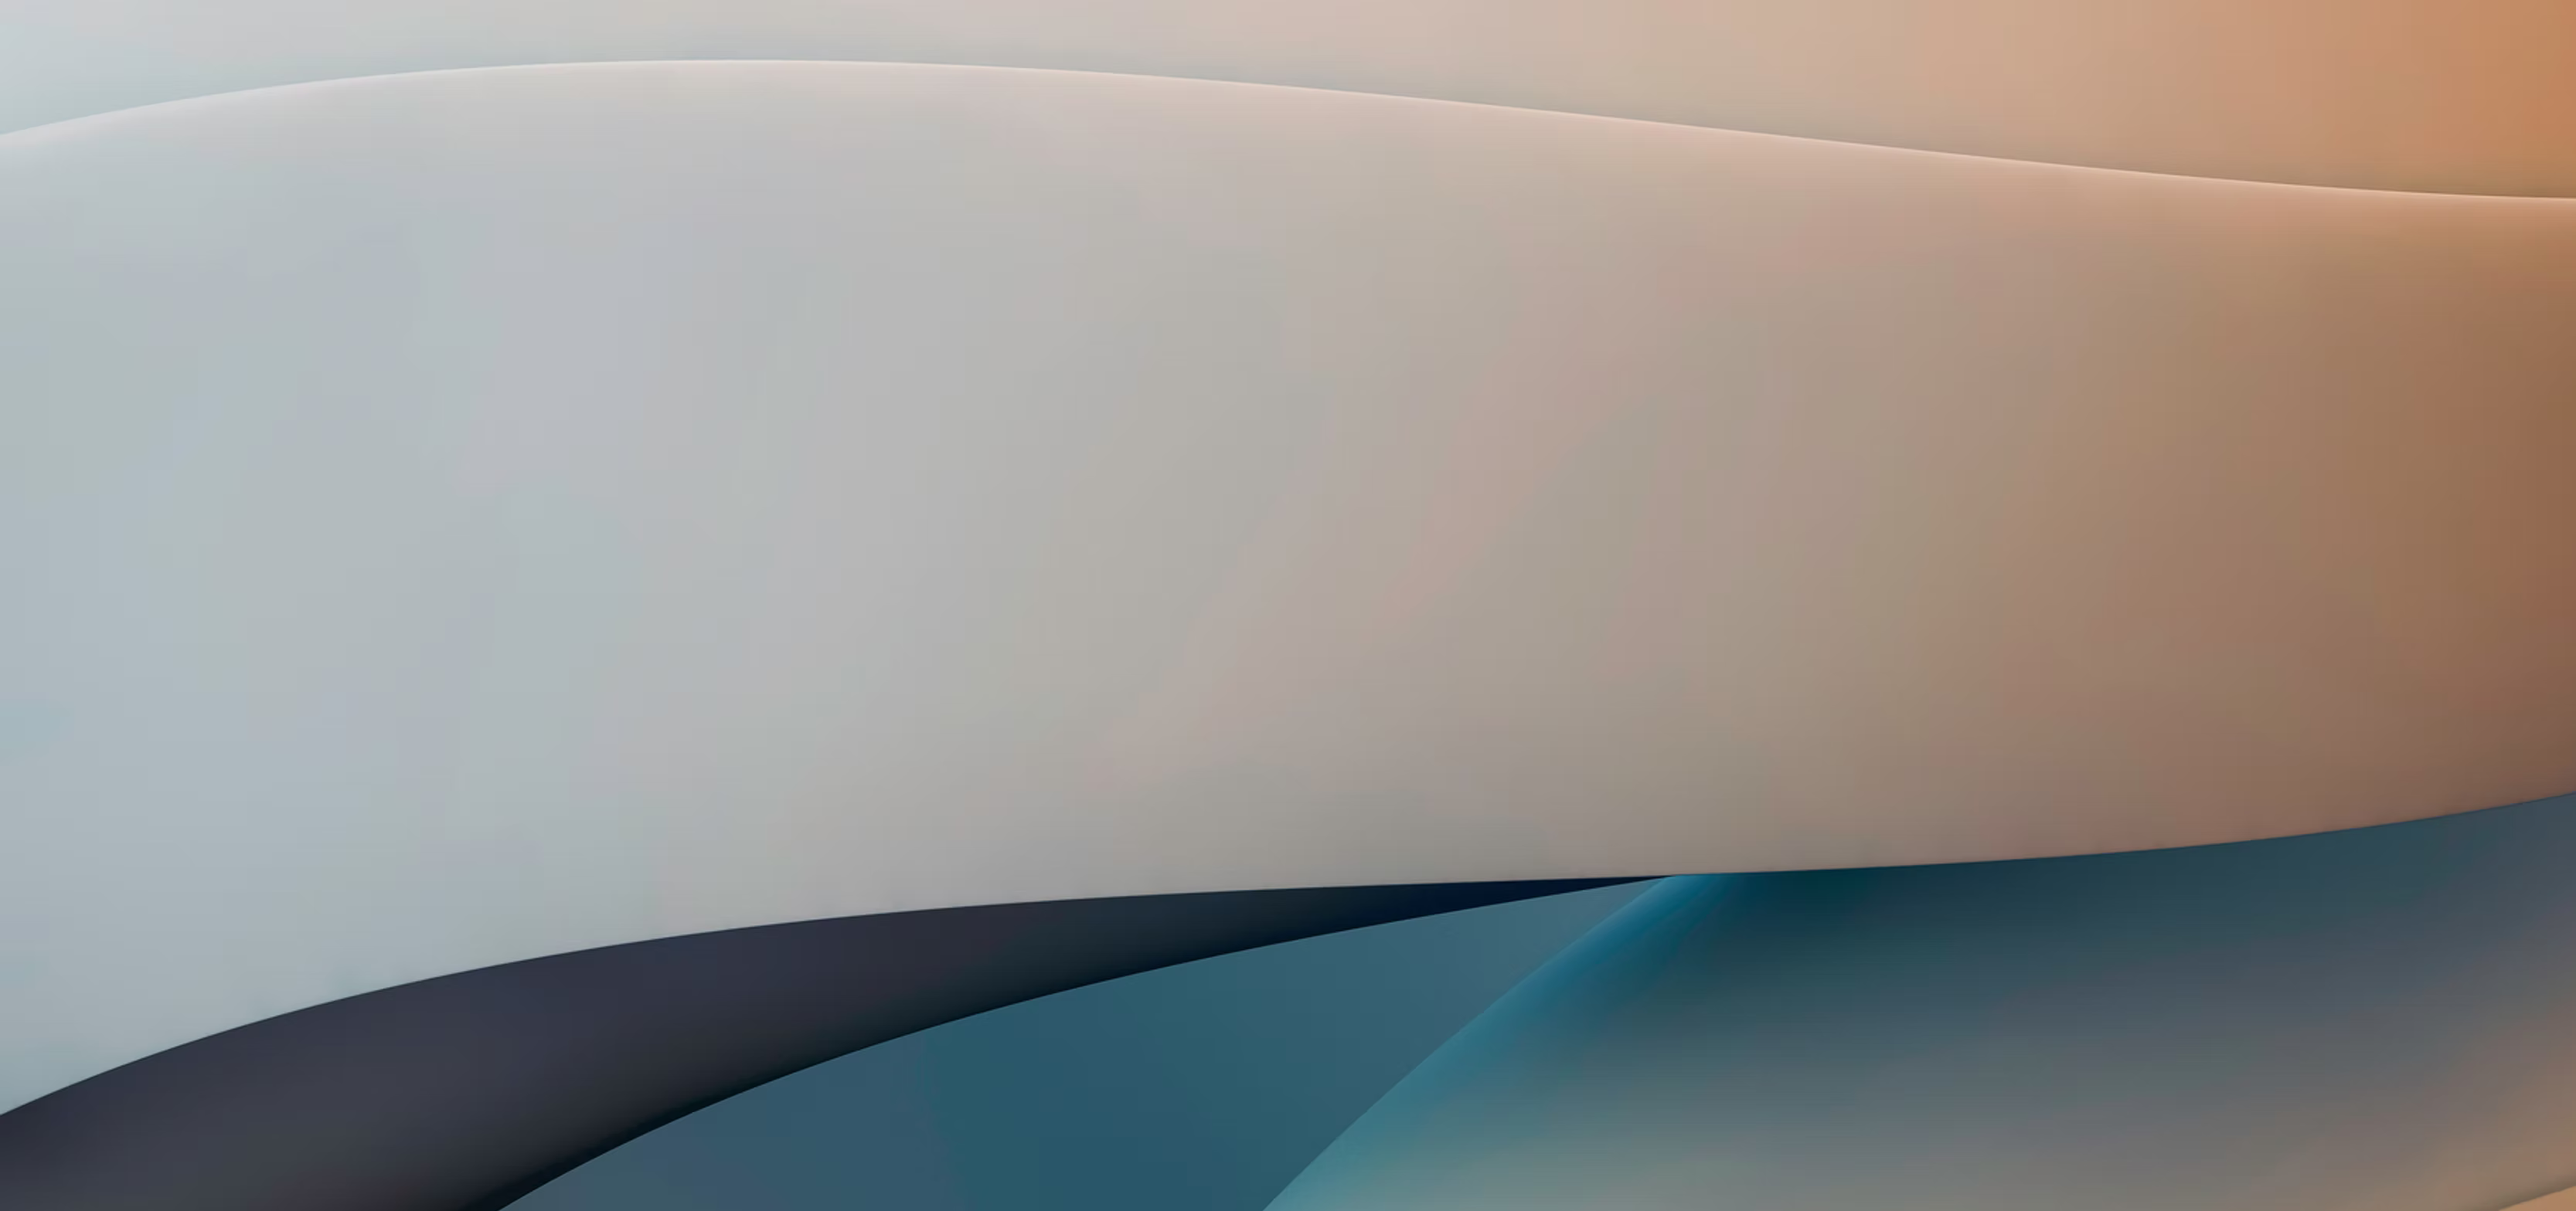
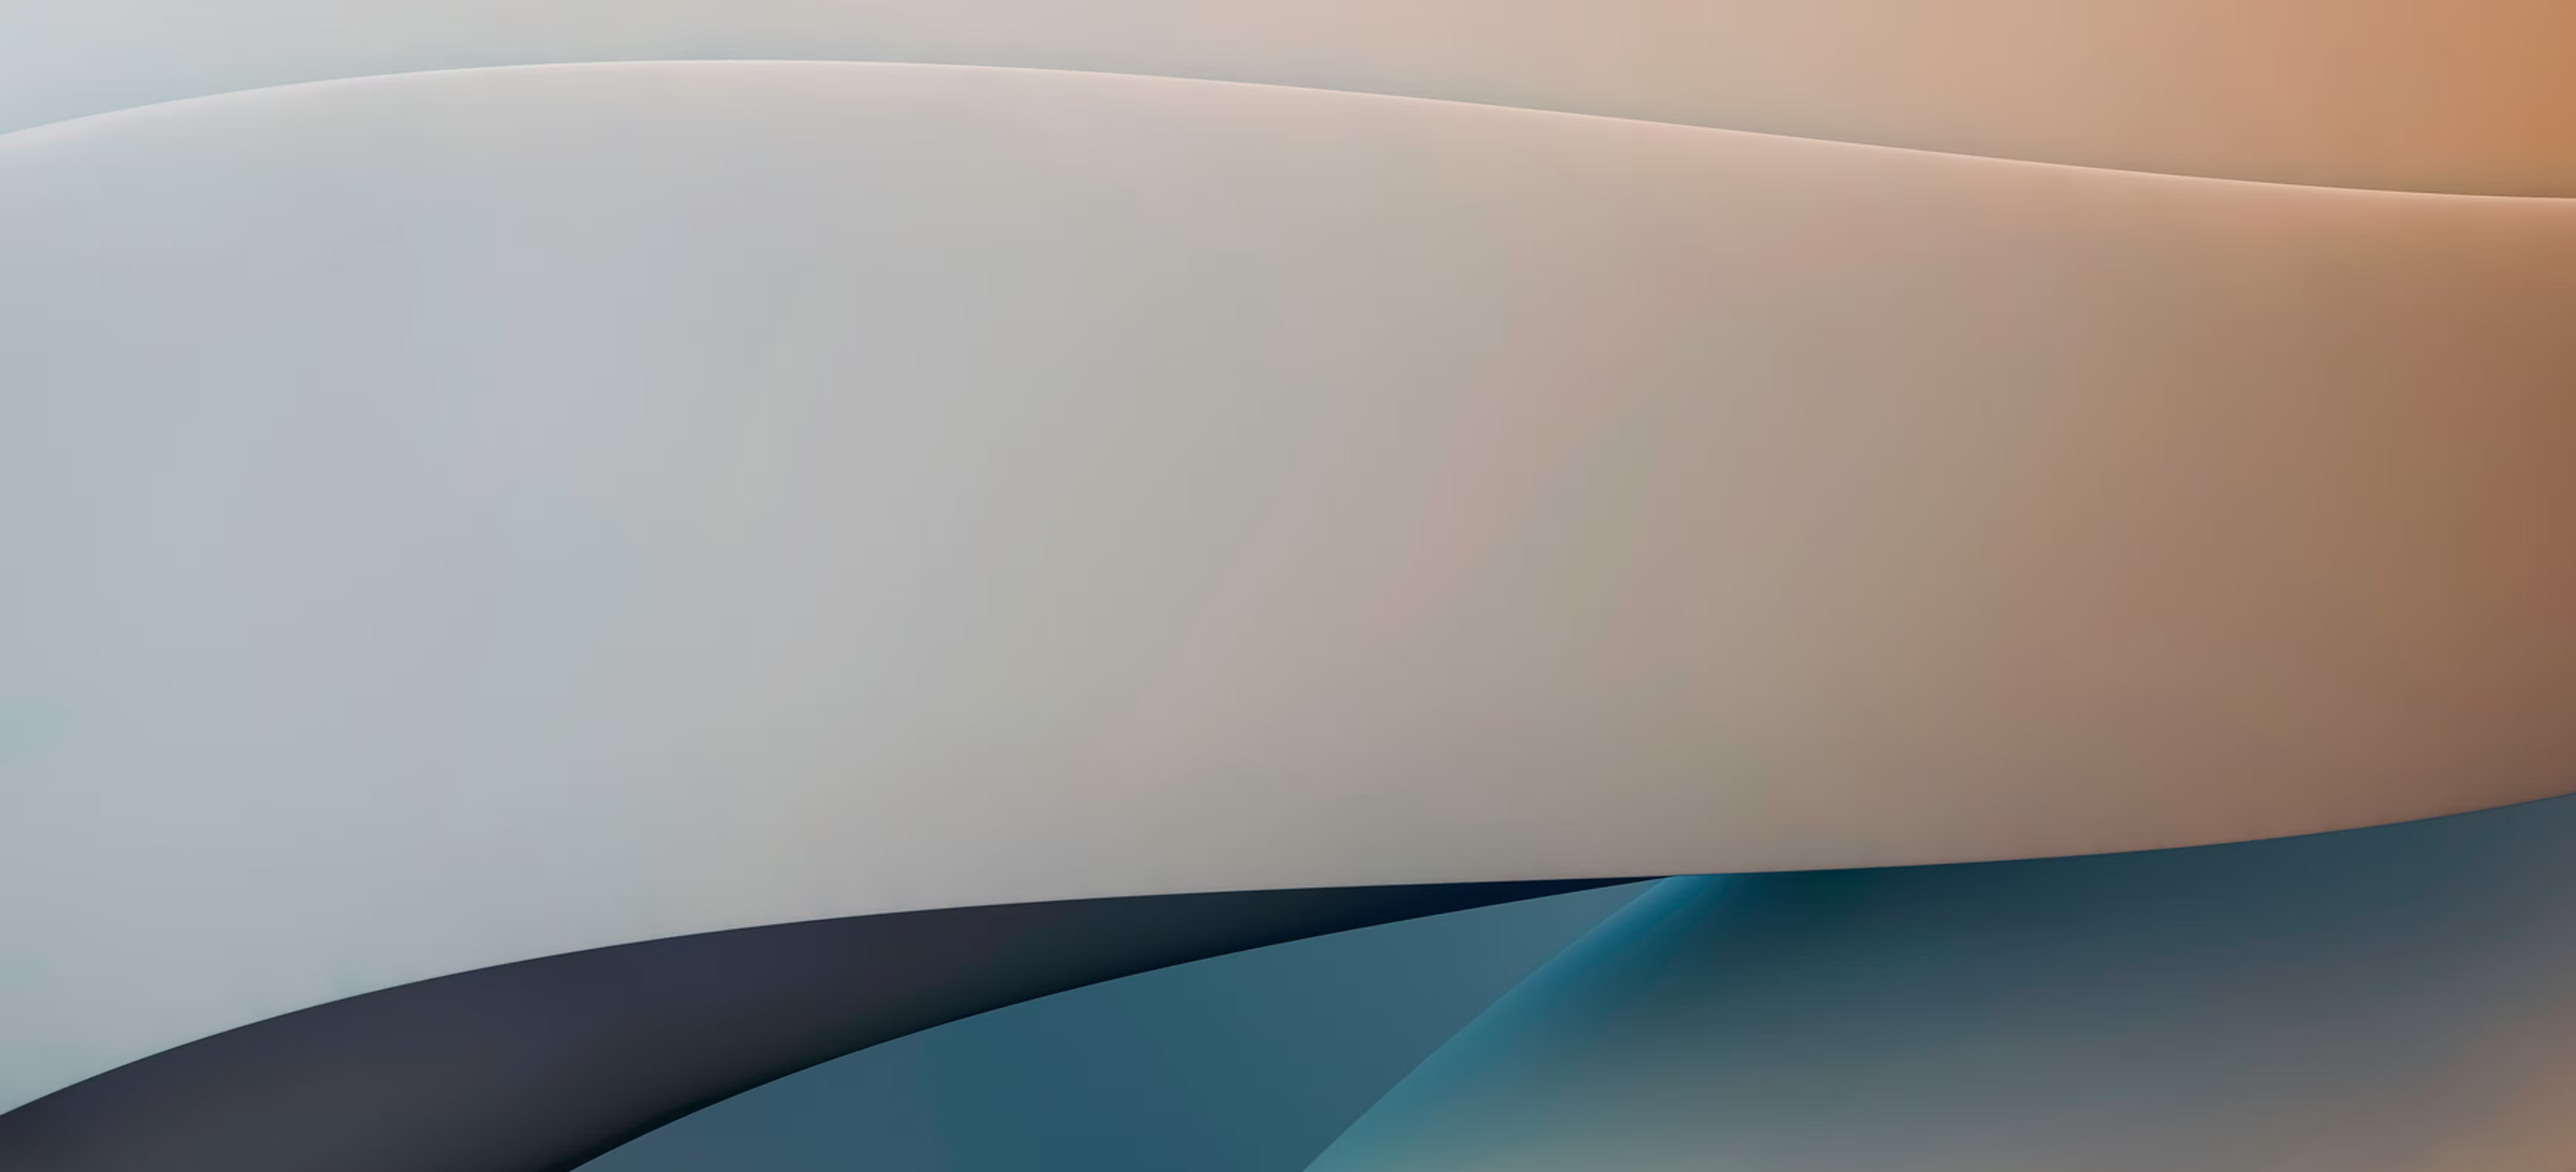
Remove testing page

diff --git a/templates/index.html b/templates/index.html
@@ -52,7 +52,7 @@
         }
         
         .hero-background {
-            background-image: url('/static/image/background_crop.png');
+            background-image: url('/static/image/background.png');
             background-size: cover;
             background-position: center;
             background-repeat: no-repeat;

diff --git a/app.py b/app.py
@@ -70,10 +70,6 @@ def security_headers(response):
 def index():
     return render_template('index.html')
 
-@app.route('/dev/test1')
-def test_index():
-    return render_template('index_test.html')
-
 @app.route('/terms')
 def terms():
     """Terms of Service page"""
